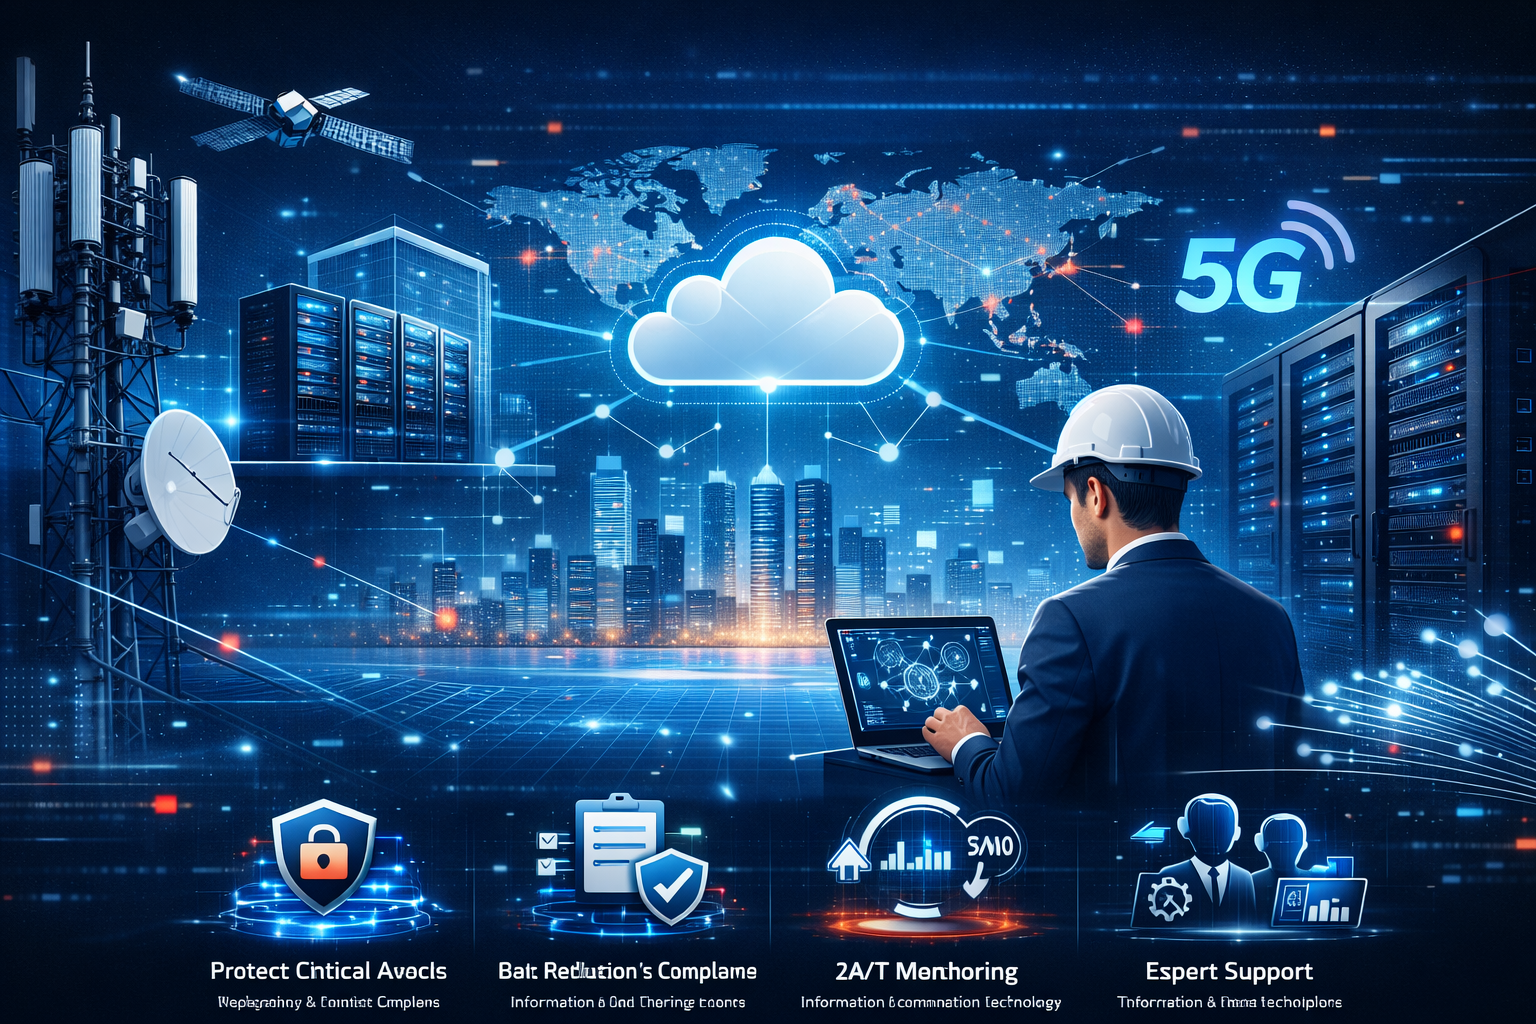
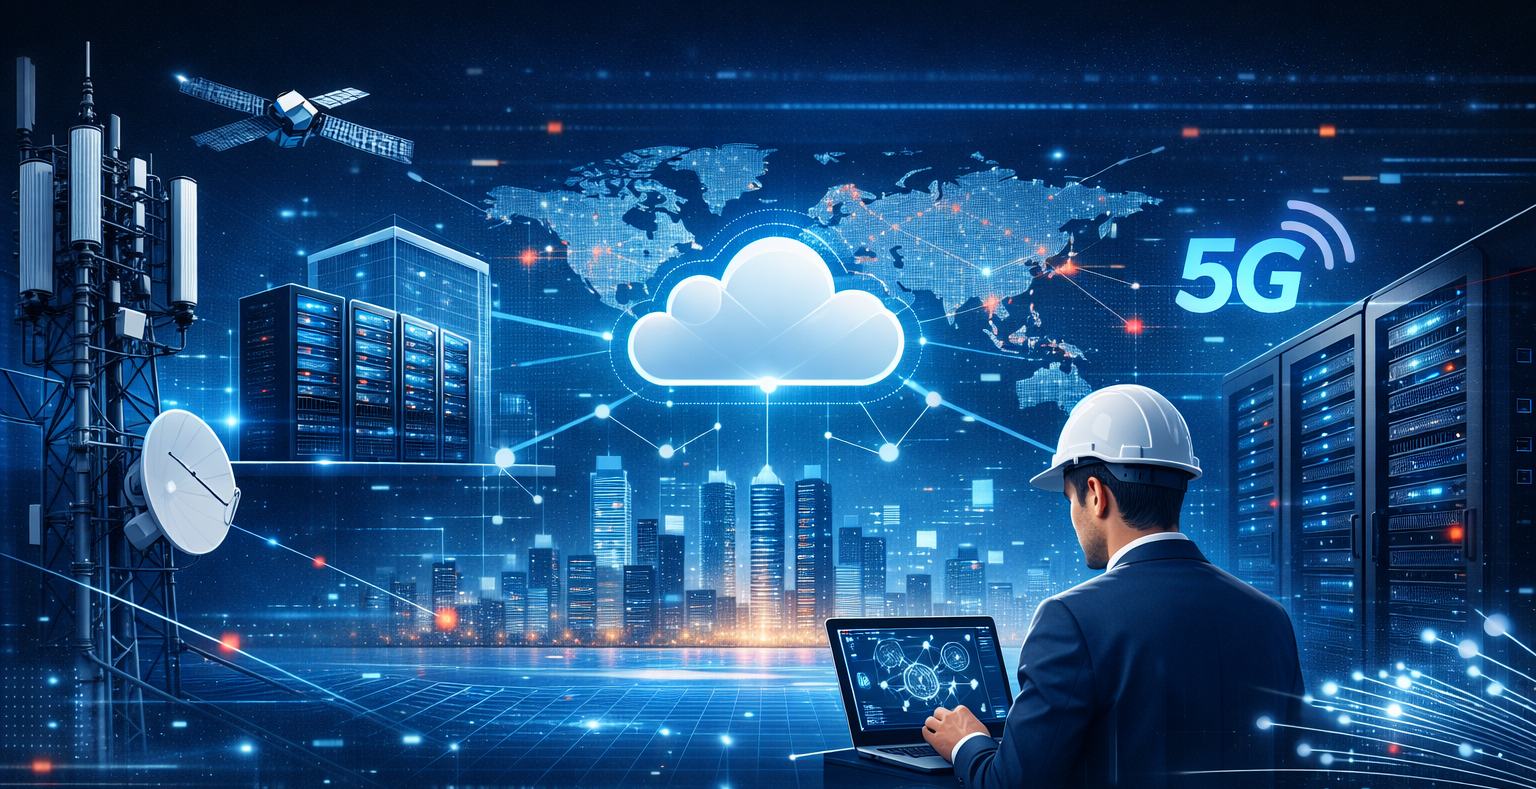
using the same layout as the cybersecurtiy page i created the information technology and communication page

diff --git a/assets/css/styles.css b/assets/css/styles.css
@@ -142,7 +142,8 @@ select {
 .hero-section.contact-hero,
 .hero-section.quote-hero,
 .hero-section.service-hero,
-.hero-section.cyber-hero {
+.hero-section.cyber-hero,
+.hero-section.ict-hero {
     position: relative;
     min-height: 820px;
     background-size: cover;
@@ -175,7 +176,9 @@ select {
 .hero-section.cyber-hero {
     background-image: linear-gradient(180deg, rgba(10, 20, 56, 0.12), rgba(10, 20, 56, 0.84)), url('../images/cyber_hero.png');
 }
-
+.hero-section.ict-hero {
+    background-image: linear-gradient(180deg, rgba(10, 20, 56, 0.12), rgba(10, 20, 56, 0.84)), url('../images/ICT_hero.png');
+}
 .about-hero .hero-title,
 .service-hero .hero-title,
 .cyber-hero .hero-title {